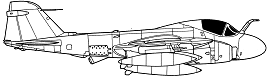
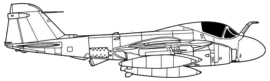
a6 new sprite

Changed region(s): [[0.0, 0.0, 1.0, 0.9744]]

diff --git a/shilka2/Aircrafts.cs b/shilka2/Aircrafts.cs
@@ -253,7 +253,7 @@ namespace shilka2
             new AircraftsType {
                 aircraftType = "a6",
                 aircraftName = "A-6 Intruder",
-                size = new int[] { 270, 78 },
+                size = new int[] { 270, 81 },
                 price = 43,
                 speed = 7
             },
